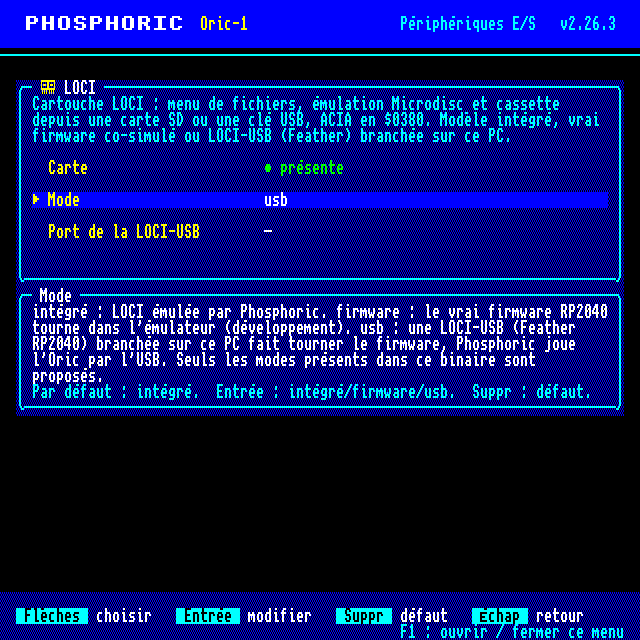
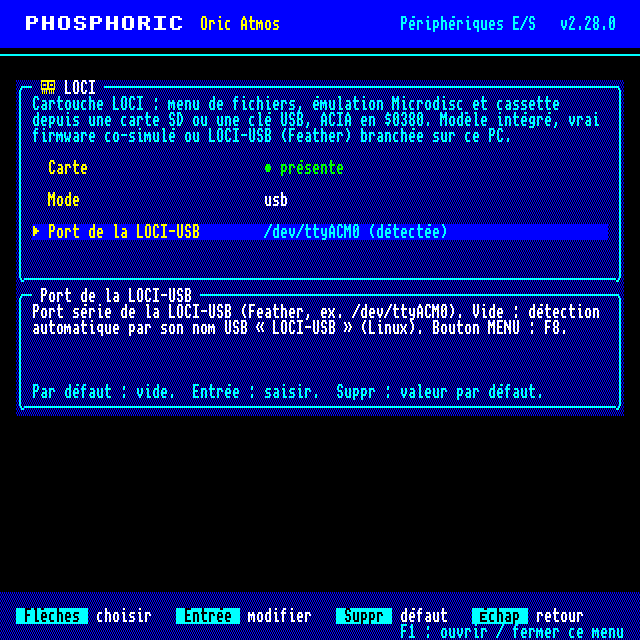
Doc du menu F1 à jour : captures FR/EN, README, manuel (2.28.1)
Captures refaites par le code du menu (4 boutons, port LOCI-USB détecté), en
français et en anglais (*-en.png pour le README). README : menu FR/EN, LOCI-USB
prise d'office, lecteurs gérés par la LOCI, clé langue=. Manuel F1 : intro,
Divers. make tests : 0 échec.

Changed region(s): [[0.0312, 0.4375, 0.9688, 0.625], [0.0312, 0.2812, 0.9688, 0.375], [0.375, 0.0312, 0.4375, 0.0625]]

diff --git a/include/emulator.h b/include/emulator.h
@@ -47,7 +47,7 @@
 #include "io/ula_ng.h"
 #include "network/cast_server.h"
 
-#define EMU_VERSION "2.28.0"
+#define EMU_VERSION "2.28.1"
 
 /**
  * @brief ORIC machine model

diff --git a/README.md b/README.md
@@ -9,7 +9,7 @@ FDC is still timed by fixed delays, the absolute raster/CPU phase is unobservabl
 on a stock ORIC and therefore not modelled) — is spelled out component by component in
 [docs/ACCURACY.md](docs/ACCURACY.md), with the test that would falsify each line.
 
-**Version: 2.28.0** | **70 test suites (1,362 checks), 100% pass** | **Zero memory leaks** | **Runs natively on Linux / Windows / macOS (CI-verified) & in the browser (WebAssembly)**
+**Version: 2.28.1** | **70 test suites (1,362 checks), 100% pass** | **Zero memory leaks** | **Runs natively on Linux / Windows / macOS (CI-verified) & in the browser (WebAssembly)**
 
 ```
  ____  _                      _                _
@@ -275,9 +275,11 @@ make SDL2=1
 - **WebAssembly build** — runs in the browser (`make wasm`): full machine on a `<canvas>` with Web Audio, a JOric-style left icon rail (ROM selector, `.tap`/`.dsk` drag-drop, Reset, fullscreen, **CRT filter**, **`.ost` save/restore**), **TAPE/DISK activity LEDs**, and a faithful ORIC-1/Atmos on-screen keyboard — semi-transparent overlay, toggleable, with sticky CTRL/FUNCT/SHIFT (FUNCT hidden on ORIC-1). **Deep-link URL params** `?rom=oric1|atmos` and `?media=<file>.tap|.dsk` boot straight into a program (a `.dsk` auto-enables the Microdisc controller). **LOCI cartridge in the browser** (`?loci=1` or the LOCI rail button): boots the LOCI menu with a persistent internal flash (IndexedDB) — loaded files land in it and mount from the menu (`make test-web-loci`, Chrome headless e2e). **I/O** rail button = the F1 peripherals menu (F1 is kept from the browser); **MODEM** (`?modem=1`) = picowifi modem through a WebSocket relay (`tools/picowifi_ws_relay.py`) or `?relay=none` (`make test-web-iomenu`, `test-web-picowifi`). Output byte-identical to native. See [docs/wasm.md](docs/wasm.md).
 - **Keyboard layouts** — QWERTY, AZERTY (`--keyboard azerty`)
 - **Headless mode** — No display, for CI/automation
-- **Peripherals menu (F1)** — full-screen menu to insert/eject floppies A–D (write-protect tab
-  per drive), tape, snapshots, printer, joystick, keyboard layout; settings saved to
-  `phosphoric.cfg` (see [Peripherals menu](#peripherals-menu-f1))
+- **Peripherals menu (F1)** — full-screen menu, in French or English, to insert/eject floppies
+  A–D (write-protect tab per drive), tape, snapshots, printer, joystick, keyboard layout,
+  expansion cards; settings saved to `phosphoric.cfg` (see [Peripherals menu](#peripherals-menu-f1))
+- **LOCI-USB plugged in** — used automatically at launch when no disk card is chosen and its
+  LOCI firmware answers 'L' at `$0319` (`--no-auto-loci` to opt out; see [docs/loci.md](docs/loci.md))
 - **Host filesystem** — Share files with `--hostfs DIR`
 - **Expansion cards as modules** — each card (Microdisc, Jasmin, LOCI, ACIA, DTL 2000, Mageco/ORICON, SP0256, MEA8000, ULA-NG) is one file in `src/cards/` plus one line in `include/cards_list.h`; options, help, F1 menu, bus, ticks, save states and audio derive from it. Adding a card: see [docs/CARTES.md](docs/CARTES.md) (template `docs/examples/card_demo.c`, checked by `make test-card-template`)
 - **Conversion tools** — `bas2tap`, `bin2tap`, `tap2sedoric` (Sedoric file injection: AUTO `.COM`, boot autoexec, multi-file/directory chaining), `sedoric-info` (disk inspector), `tap2wav` (`.tap` → cassette-audio `.wav`, playable on real hardware) and `dsk2hfe` (`.dsk` MFM_DISK → magnetic **HFE** image for HxC/Gotek/Greaseweazle) + RAW-chain scripts `sedoric_inject.py`/`dsk_raw2mfm.py`/`sedoric_mkbare.py` — see [docs/TOOLS.md](docs/TOOLS.md) and [docs/SEDORIC.md](docs/SEDORIC.md)
@@ -591,7 +593,7 @@ TEST 4 LOOPBACK= 10 /10            all bytes echoed back
 
 User manual (French): [docs/user-guide/MENU-F1.md](docs/user-guide/MENU-F1.md).
 
-![Peripherals menu](docs/images/menu-peripheriques.png)
+![Peripherals menu, in English](docs/images/menu-peripheriques-en.png)
 
 **F1** opens a full-screen menu (inspired by the Neo6502TeleStrat OSD) that manages
 the Oric's input/output devices while the machine is **paused** (sound muted):
@@ -601,7 +603,8 @@ the Oric's input/output devices while the machine is **paused** (sound muted):
   (→ column). The floppy goes to the disk card present: Microdisc (`--disk-rom`),
   Jasmin (`--jasmin-rom`) or **LOCI** (`--loci`: mounted in the LOCI drive, like its own
   menu does; no per-drive write-protect there) — they never coexist. With a co-simulated
-  or real LOCI (`--loci-emu`, `--loci-hw`), its firmware mounts its images (MENU button).
+  or real LOCI (`--loci-emu`, `--loci-hw`), its firmware mounts its images (MENU button,
+  F8): drives A–D read « handled by the LOCI » and the cursor skips them.
   No disk card: nothing is mounted.
 - **Tape** — insert, eject, rewind.
 - **Snapshots** — save `snapshots/etatNNNN.ost` or resume one.
@@ -629,14 +632,15 @@ the Oric's input/output devices while the machine is **paused** (sound muted):
   overlaps are flagged. **Apply and restart** relaunches the emulator with those
   cards (cold restart: the process is replaced, same command line minus the card
   options, plus the new ones). Read-only in the web build.
-- **Reset**, **Save configuration**, **Resume** (or Esc / F1).
+- **Reset**, **Save configuration**, **Resume** (or Esc / F1), **Language FR/EN** (the
+  whole menu switches language at once; saved as `langue=fr|en`, French by default).
 
 Keys: arrows, Enter, Del, Esc; in the file browser, a letter jumps to the next
 name with that initial.
 
 **Save configuration** writes `phosphoric.cfg` (one `key=value` per line:
 `a=`…`d=`, `protection_x=`, `cassette=`, `cassette_rapide=`, `imprimante=`,
-`imprimante_fichier=`, `joystick=`, `clavier=`, and the cards: `carte.<id>=oui|non`
+`imprimante_fichier=`, `joystick=`, `clavier=`, `langue=`, and the cards: `carte.<id>=oui|non`
 plus `<id>.<parameter>=value` for non-default parameters; other lines are kept;
 the former `interface_disque=` / `rom_disque=` are still read). Cards from the file
 are added at launch only for cards the command line does not mention
@@ -909,4 +913,4 @@ the MIT Licence retain their MIT notice (MIT permits their inclusion here).
 
 ---
 
-Phosphoric v2.28.0 | 70 test suites (1,362 checks) | ORIC-1 + Atmos | Linux/Windows/macOS natif (CI) + WebAssembly (browser) | VIA 6522 complet (CA2/CB2 8 modes + latching) + WD1793 (Microdisc) + WD177x (Jasmin, boot TDOS) + bad-sector injection + LOCI (menu F8 + resume, diag ROM Mike Brown, cles USB host, ABI firmware) boot Sedoric V4 + ACIA 6551/6850 + DTL 2000/Minitel V23 + PicoWiFi/TLS + MIDI Mageco/ORICON | GDB remote stub + inline assembler + memory search + Conditional/Raster BPs + Rewind + Symbols + TUI + IPC control (OricForge) + live peripheral introspection | deterministic record/replay + MJPEG/AVI capture + Chromecast | MCP-40 + Printer + Joystick | F1 peripherals menu + phosphoric.cfg | 2026-10-05
+Phosphoric v2.28.1 | 70 test suites (1,362 checks) | ORIC-1 + Atmos | Linux/Windows/macOS natif (CI) + WebAssembly (browser) | VIA 6522 complet (CA2/CB2 8 modes + latching) + WD1793 (Microdisc) + WD177x (Jasmin, boot TDOS) + bad-sector injection + LOCI (menu F8 + resume, diag ROM Mike Brown, cles USB host, ABI firmware) boot Sedoric V4 + ACIA 6551/6850 + DTL 2000/Minitel V23 + PicoWiFi/TLS + MIDI Mageco/ORICON | GDB remote stub + inline assembler + memory search + Conditional/Raster BPs + Rewind + Symbols + TUI + IPC control (OricForge) + live peripheral introspection | deterministic record/replay + MJPEG/AVI capture + Chromecast | MCP-40 + Printer + Joystick | F1 peripherals menu (FR/EN) + phosphoric.cfg | 2026-10-05

diff --git a/docs/user-guide/MENU-F1.md b/docs/user-guide/MENU-F1.md
@@ -2,7 +2,8 @@
 
 Le menu **F1** (« Périphériques E/S ») règle tout ce qui entoure l'Oric : disquettes,
 cassette, cartes d'extension, instantanés, imprimante, joystick, clavier. Il remplace
-la plupart des options de la ligne de commande pendant que la machine tourne.
+la plupart des options de la ligne de commande pendant que la machine tourne. Il
+s'affiche en français ou en anglais (bouton **Langue FR / Language EN**, section 3).
 
 ![Page principale du menu F1](../images/menu-peripheriques.png)
 
@@ -240,7 +241,11 @@ Les lignes que le menu ne connaît pas sont conservées.
 ## 7. Divers
 
 - `--menu-screenshot FICHIER` enregistre une image du menu (PPM 640 × 640) à la fin
-  de l'exécution, menu ouvert ou non.
+  de l'exécution, menu ouvert ou non (dans la langue de `langue=` si `--config` est
+  donné).
+- `--no-auto-loci` : ne pas démarrer sur une LOCI-USB branchée (section 4).
+- Captures en anglais : `docs/images/menu-peripheriques-en.png`, `menu-cartes-en.png`,
+  `menu-carte-loci-en.png`.
 - Dans la version web, le menu fonctionne (médias, périphériques), mais les cartes ne
   se changent qu'au lancement.
 - Les autres touches de fonction (F5 reset, F6 médias rapides, F8 bouton LOCI, F9

diff --git a/docs/user-guide/README.md b/docs/user-guide/README.md
@@ -183,7 +183,7 @@ En mode AZERTY, l'emulateur utilise les evenements texte SDL2, donc la saisie fo
 
 | Touche | Fonction |
 |--------|----------|
-| F1 | Menu des périphériques E/S (disquettes, cassette, cartes, instantanés, imprimante, joystick, clavier ; manuel : [MENU-F1.md](MENU-F1.md)) |
+| F1 | Menu des périphériques E/S (disquettes, cassette, cartes, instantanés, imprimante, joystick, clavier, en français ou en anglais ; manuel : [MENU-F1.md](MENU-F1.md)) |
 | F2 | Sauvegarde rapide (quicksave) |
 | F3 | Changer l'echelle d'affichage (x1 -> x2 -> x3 -> x4) |
 | F4 | Chargement rapide (quickload) |
